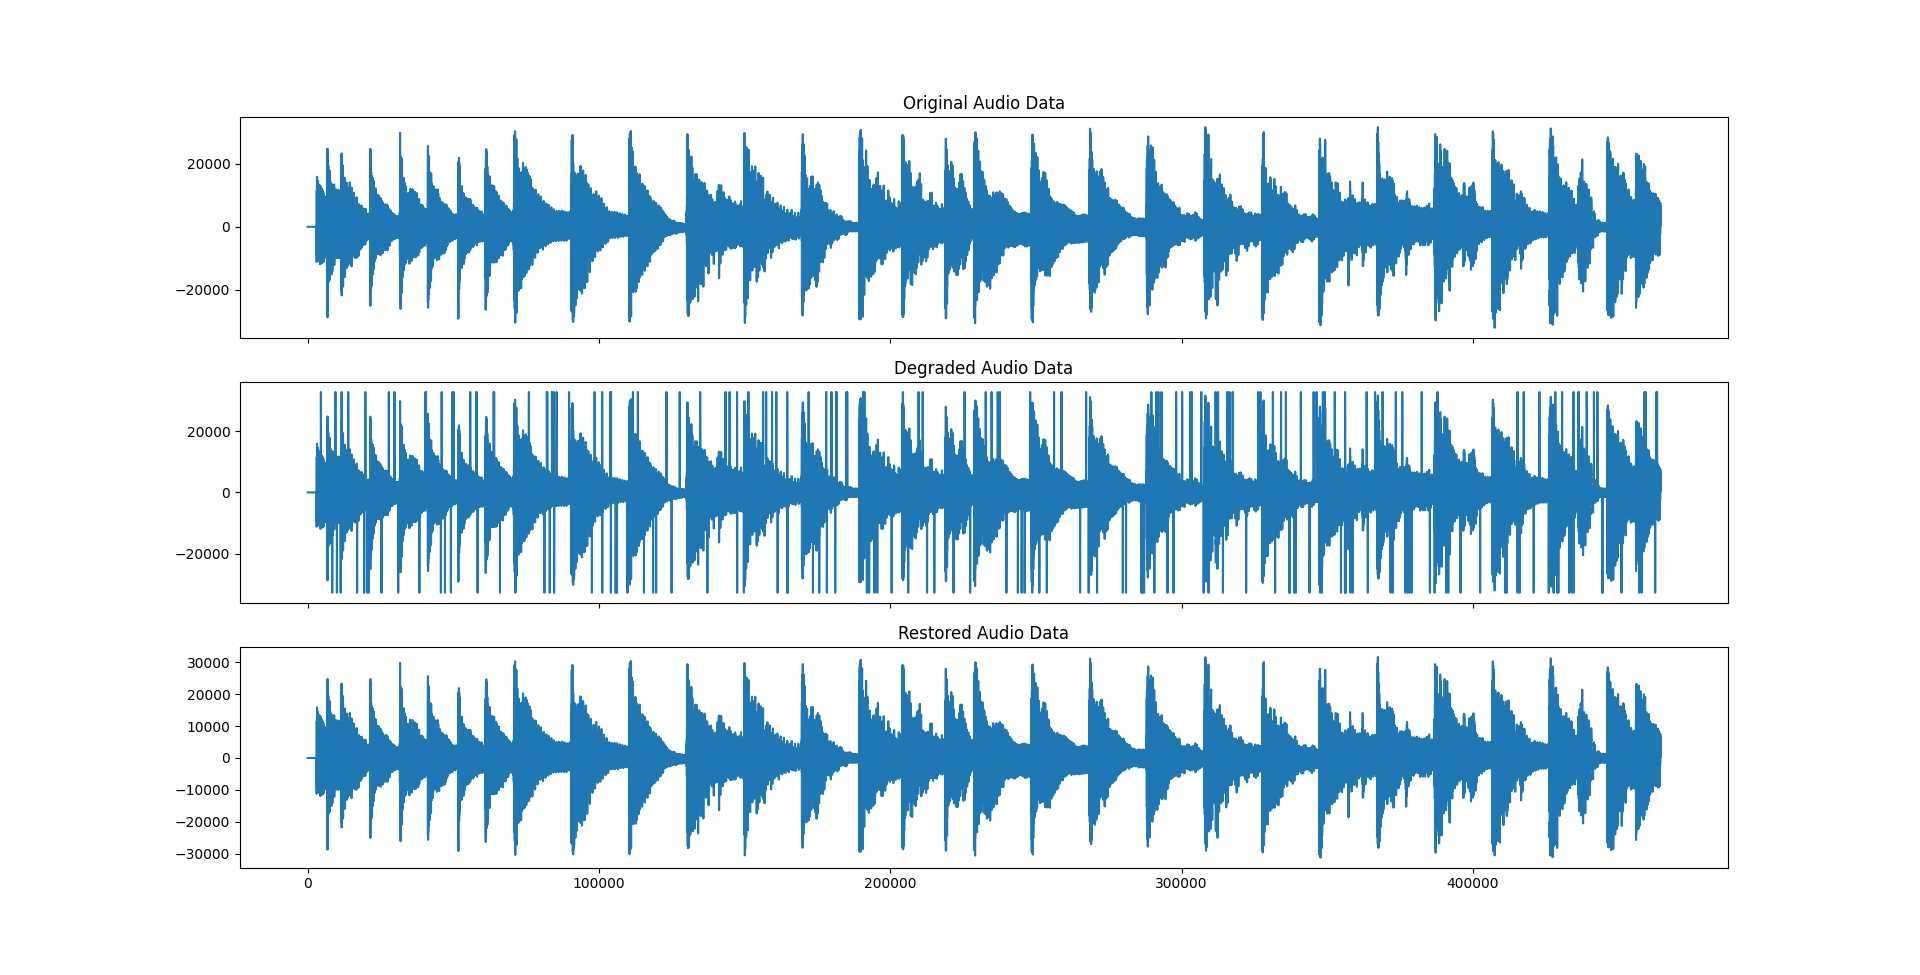
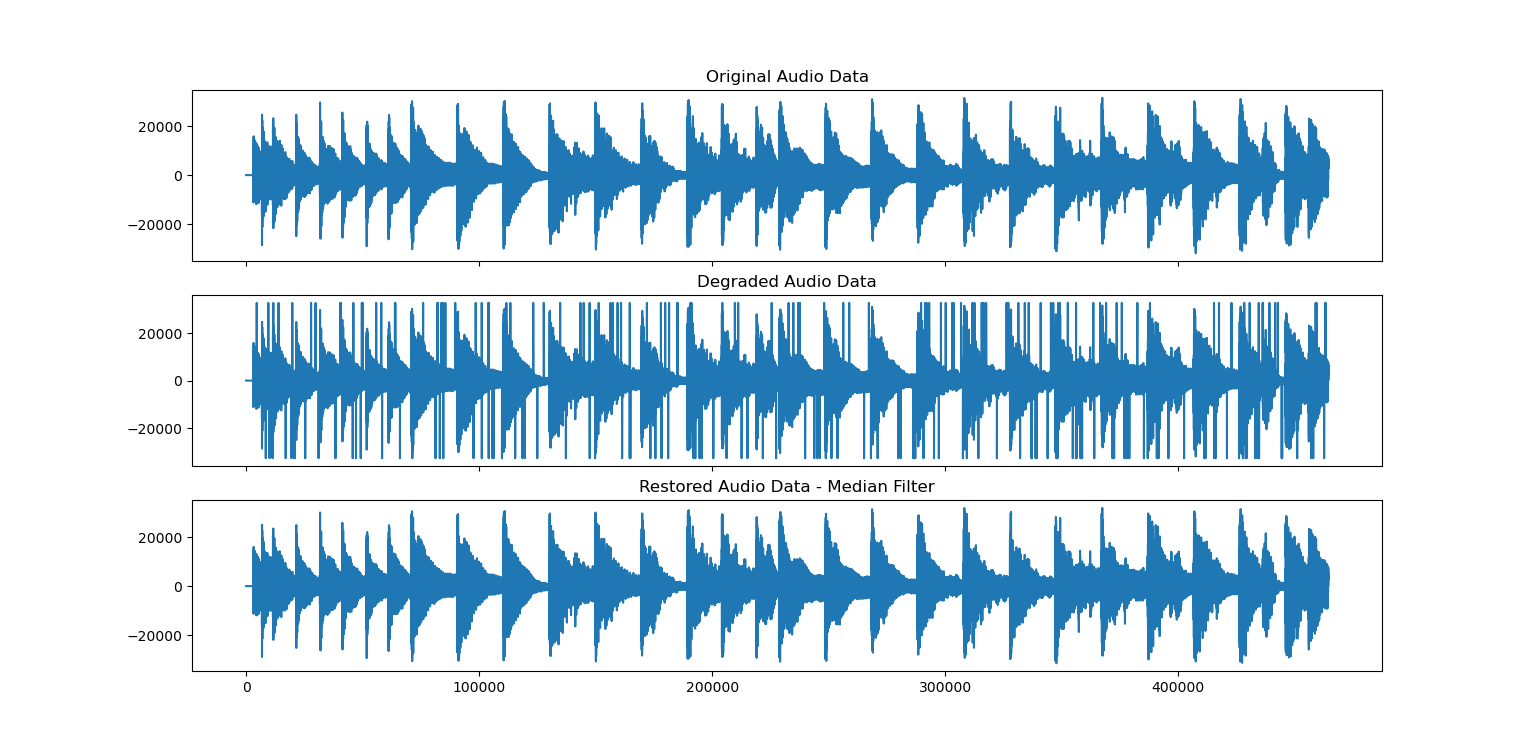
Playsound Added

diff --git a/Assignment02/cubic_spline.py b/Assignment02/cubic_spline.py
@@ -8,7 +8,7 @@ from scipy.io.wavfile import write
 from scipy.interpolate import CubicSpline
 import time
 from tqdm import tqdm
-
+from playsound import playsound
 
 # reading Data from Audio files
 samplerate, audio_data = wavfile.read("apple_audio.wav")
@@ -85,3 +85,4 @@ plt.show()
 # Writing the restored data to create a output audio file
 res_data1 = np.array(data_n)
 write("output_cubic_spline.wav", samplerate, res_data1.astype(np.int16))
+playsound("output_cubic_spline.wav")

diff --git a/Assignment02/README.md b/Assignment02/README.md
@@ -78,15 +78,17 @@ The comparison over the original, degraded and restored data.
 <img src="Figure_1.png" width="700">
 
 The restored data is waveform <output_medianFilter.wav>
-The execution Time for 
+The execution Time for Median Filter is '0.07' sec
+Below Figure shows the original, degraded and restored Sound data by mdeian filter.
 
+<img src="Figure_1.png" width="700">
 
 2. cubic splines is implemented in cubic_spline.py 
 The MSE for cubic_spline is '0.4'.
 The execution time for Cubic spline function is '15.40' sec.
 Below Figure shows the original, degraded and restored Sound data by Cubic Spline.
 
-<img src="Figure_3.png" width="700">
+<img src="Figure_4.png" width="700">
 
 
 3. Comparing the median Filter and Cubic Spline interpolation methods, we can conclude the notice that CubicSpline achieves a lower MSE. The runtime of Median Filter method is 
